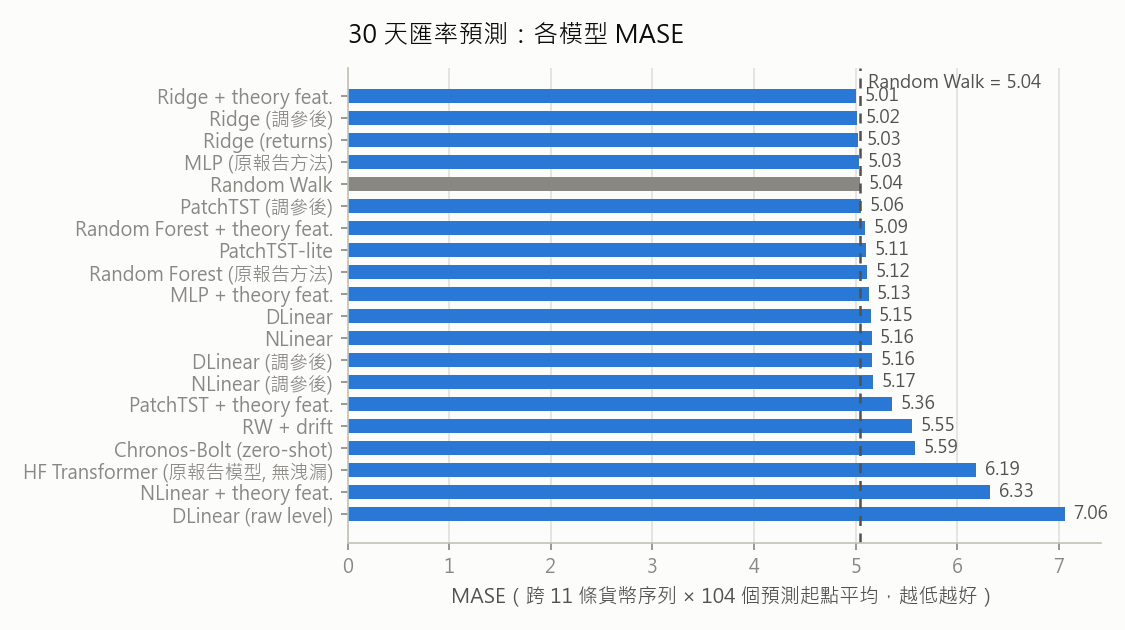
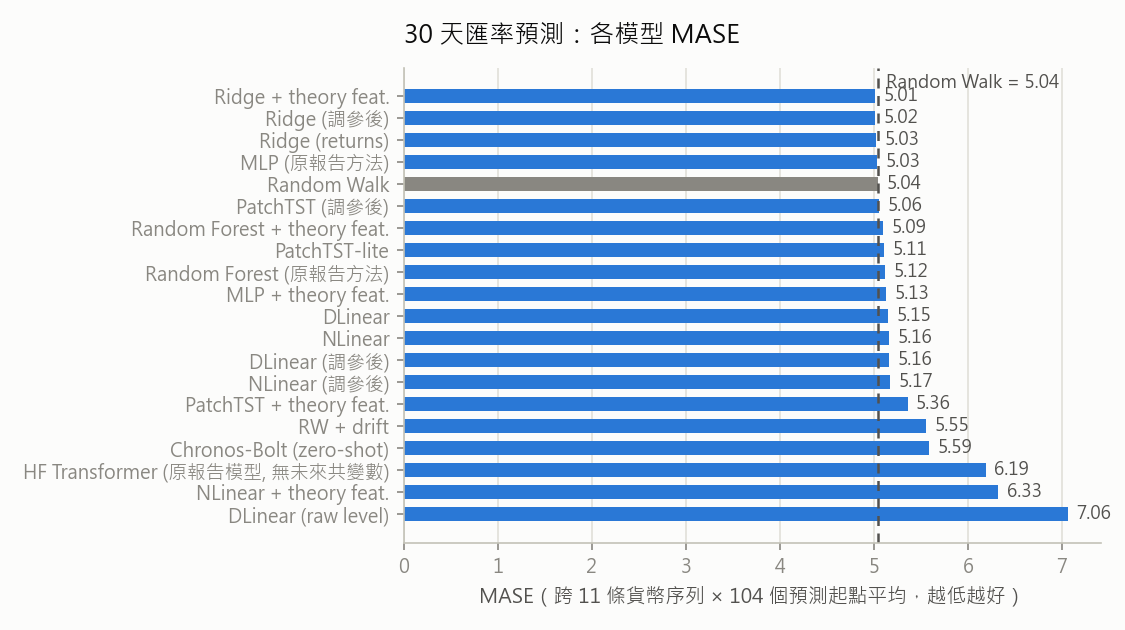
依第六輪 review 修正：research_summary 註記與全面清查文件措辭
- research_summary.md 的 2026-11 註記改正：本文件 DM 原本就是 MASE；results/ 的 summary.csv、report.md 已改 MASE 版重新彙整，rwchal_dm.csv 仍為 level MAE
- HF Transformer 的「無洩漏」標籤統一改為「無未來共變數」（make_report、README、modified_code_report、full_project_report、hf_transformer_exp docstring）
- README 的 leakage-free 敘述、data.py 目錄註解、DM 損失說明補上現況
- extension_report、modified_code_report 的 summarize DM 損失與 feat_lag 描述補上 2026-11 更新；比較表加註時間戳洩漏
- sklearn_exp docstring 不再宣稱無洩漏
- 以 .venv 重新產生 results/report.md、fig_mase.png（標籤變更）

diff --git a/experiments/sklearn_exp.py b/experiments/sklearn_exp.py
@@ -1,7 +1,7 @@
 """補測原報告的傳統 ML 模型：Random Forest 與 MLP（sklearn）。
 
 與原報告同套件同預設精神（RF n_estimators=100；MLP 隱藏層 + Adam），
-但放進無洩漏的 rolling backtest 框架，輸入與 Ridge 相同的
+但放進不使用未來共變數的 rolling backtest 框架（理論特徵的時間戳處理依 load_panel 的 feat_lag），輸入與 Ridge 相同的
 報酬落後期（±理論特徵）設計矩陣，目標為 h=1..30 累積 log 報酬。
 
 用法：python experiments/sklearn_exp.py [--smoke]

diff --git a/experiments/make_report.py b/experiments/make_report.py
@@ -38,7 +38,7 @@ LABELS = {
     "dlinear_raw_level": "DLinear (raw level)",
     "patchtst": "PatchTST-lite",
     "patchtst_feat": "PatchTST + theory feat.",
-    "hf_transformer": "HF Transformer (原報告模型, 無洩漏)",
+    "hf_transformer": "HF Transformer (原報告模型, 無未來共變數)",
     "chronos_bolt": "Chronos-Bolt (zero-shot)",
     "random_forest": "Random Forest (原報告方法)",
     "random_forest_feat": "Random Forest + theory feat.",

diff --git a/experiments/hf_transformer_exp.py b/experiments/hf_transformer_exp.py
@@ -1,4 +1,4 @@
-"""原報告的 HF TimeSeriesTransformer，以無洩漏設定接進 rolling backtest。
+"""原報告的 HF TimeSeriesTransformer，以不使用未來共變數與理論特徵的設定接進 rolling backtest。
 
 與原 transformer.py 的差異：
 - 不把未來 FFX/利率餵給模型（num_dynamic_real_features=0；時間特徵只有日曆與 age，

diff --git a/README.md b/README.md
@@ -155,7 +155,7 @@ Repo 根目錄另外保留較早期的：
 5. **No formal significance tests**
    早期只比較平均誤差，無法判斷差異是否只是抽樣波動。
 
-因此最終研究改採 leakage-free rolling-origin backtest，並增加統計檢定與 robustness analysis。
+因此最終研究改採沒有未來共變數的 rolling-origin backtest，並增加統計檢定與 robustness analysis（之後另外發現遠期匯率有時間戳洩漏，見下方 Extension Experiments；現行程式以 `feat_lag=1` 修正）。
 
 ---
 
@@ -196,12 +196,12 @@ Repo 根目錄另外保留較早期的：
 │
 └── experiments/
     ├── fxlib/
-    │   ├── data.py                  # leakage-free data / features
+    │   ├── data.py                  # data / features（feat_lag=1 修正遠期匯率時間戳洩漏）
     │   ├── models.py                # 統一模型介面
     │   └── backtest.py              # metrics / DM test
     ├── run_experiments.py           # 主 rolling-origin 實驗
     ├── sklearn_exp.py               # Random Forest / MLP
-    ├── hf_transformer_exp.py        # HF Transformer 無洩漏重測
+    ├── hf_transformer_exp.py        # HF Transformer 無未來共變數重測
     ├── chronos_exp.py               # Chronos-Bolt zero-shot
     ├── tune_experiments.py          # validation-based tuning
     ├── rw_challenge.py              # Random Walk 專項挑戰
@@ -226,7 +226,7 @@ Repo 根目錄另外保留較早期的：
 **重要：延伸實驗發現兩個會影響上方 Final Results 的問題**（詳見 [`experiments/docs/extension_report.md`](experiments/docs/extension_report.md) §0）：
 
 1. **遠期匯率時間戳洩漏**。AUD、CAD、DKK、JPY、NOK、CHF、GBP 七個貨幣的 FFX（RFV 來源）取價時間晚於 WM/R 即期定盤，`fwd_premium` 因此含有次日即期報酬的資訊（與次日報酬相關 0.43–0.51）。這對點位 MASE 影響很小（Ridge + 理論特徵與無特徵版差距 <0.5%），但使用 `fwd_premium` 的任何結果都應以 `ext_leak_check.py` 的 `feat_lag1` 版本為準。
-2. **合併 DM 檢定以 level 單位 MAE 計算**，KRW 佔合併 MAE 的 86%。尺度無關（MASE）版本見 `experiments/results_ext/existing_vs_rw_scalefree.csv`；「無模型顯著優於 Random Walk」的結論不變。
+2. **合併 DM 檢定以 level 單位 MAE 計算**，KRW 佔合併 MAE 的 86%（現行 `summarize` 已改以 MASE 為 `dm_p` 的損失）。尺度無關（MASE）版本見 `experiments/results_ext/existing_vs_rw_scalefree.csv`；「無模型顯著優於 Random Walk」的結論不變。
 
 延伸實驗本身的結論：三個問題都**沒有**產生穩健優於 Random Walk 的點位預測；唯一的跨貨幣效果只在 KRW/TWD（定盤時間落後 G10 所致），其餘貨幣為零。各模型適合的資料類型、優缺點與架構解釋見 [`experiments/docs/model_comparison.md`](experiments/docs/model_comparison.md)。
 
@@ -319,7 +319,7 @@ Smoke test 涵蓋：
 
 目前結果仍有以下限制：
 
-- 主表的 DM 檢定以 level MAE 合併，高價位貨幣（KRW）權重過大；尺度無關版本見 `experiments/results_ext/existing_vs_rw_scalefree.csv`。
+- 上方 Final Results 主表的 DM 檢定以 level MAE 合併（2026-08 產生），高價位貨幣（KRW）權重過大；現行 `summarize` 已改以 MASE 為損失；尺度無關版本見 `experiments/results_ext/existing_vs_rw_scalefree.csv`。
 - 7 個貨幣的遠期匯率有時間戳洩漏（見上方 Extension Experiments）。
 - Chronos 的預訓練資料可能包含部分金融時間序列，因此 zero-shot 結果僅作 baseline。
 - 本研究結果不支持「穩健的 point-forecast superiority」。

diff --git a/experiments/docs/modified_code_report.md b/experiments/docs/modified_code_report.md
@@ -22,7 +22,7 @@ experiments/
 │   ├── models.py               # 模型動物園 + 共用訓練器
 │   └── backtest.py             # 指標、DM 檢定
 ├── run_experiments.py          # 主實驗矩陣
-├── hf_transformer_exp.py       # 原報告模型無洩漏重測
+├── hf_transformer_exp.py       # 原報告模型無未來共變數重測
 ├── chronos_exp.py              # Chronos-Bolt 零樣本
 ├── sklearn_exp.py              # RF/MLP（原報告方法）補測
 ├── tune_experiments.py         # 超參數調校 + 敏感度
@@ -68,7 +68,7 @@ experiments/
 - `metric_rows()`：每 (nation, origin) 一列——MAE/MSE/sMAPE/MASE 與各視野絕對誤差 `abserr_h*`（h ∈ {1,5,14,30}）。
 - `mase_scales()`：MASE 分母 = 訓練期 naive 一步 MAE（每貨幣）。
 - `dm_test(a, b, max_lag)`：Diebold-Mariano，Bartlett-kernel HAC 變異數（處理重疊視窗自相關）+ Harvey-Leybourne-Newbold 小樣本修正；樣本過少時 lag 自動縮減（`min(max_lag, T//4)`）。
-- `summarize()`：多 seed 平均 → 模型層級總表（含 DM p 值）。
+- `summarize()`：多 seed 平均 → 模型層級總表（含 DM p 值）。（2026-11 更新：`dm_p` 改以 MASE 為損失，level MAE 版為 `mae_dm_p`；依 origin 對齊，共同起點少於 10 個時報錯。）
 
 ## 4. 實驗腳本詳解
 
@@ -85,7 +85,7 @@ train_cutoff   = 測試首起點 − 30           （embargo）
 
 2 folds（2022、2023 年度）× 10 模型 × 3 seeds（確定性模型跑 1 次）→ `results/raw.csv` + `meta.json`。
 
-### 4.2 hf_transformer_exp.py（原模型無洩漏重測）
+### 4.2 hf_transformer_exp.py（原模型無未來共變數重測）
 
 與原 transformer.py 的三個關鍵差異：
 1. `num_dynamic_real_features=0`——不給任何未來不可知的共變數；時間特徵只有日曆（dow/dom/doy 依 gluonts 慣例縮放）與 log-age，這些在未來視窗是真正已知的
@@ -154,7 +154,7 @@ nations/*.csv
 | 面向 | 原始程式 | 修改後 |
 |---|---|---|
 | 測試視窗 | 1 個（最後 30 天） | 104 個起點（主矩陣）/ 312 個（挑戰賽，已提交結果為 stride 5；`--stride 2` 可增至 780） |
-| 未來共變數 | 洩漏（feat_dynamic_real 進未來視窗） | 全部只用起點當下已知資訊 |
+| 未來共變數 | 洩漏（feat_dynamic_real 進未來視窗） | 不使用預測視窗內的未來共變數（⚠ 理論特徵另有遠期匯率時間戳洩漏，見 §1 更正） |
 | 驗證集 | 與訓練重疊、未用於選模 | 獨立區間 + embargo、early stopping + 選 checkpoint |
 | 歐元區 | 7 國重複計算 | 合併為單一序列 |
 | 檢定 | 無 | DM（HAC+HLN） |

diff --git a/experiments/results/report.md b/experiments/results/report.md
@@ -64,8 +64,8 @@
 
 以下數字由上方總表動態產生（DM 以 MASE 為損失）。
 
-1. **點位誤差**：沒有任何模型在 5% 水準顯著優於 Random Walk。MASE 最低的是 Ridge + theory feat.（MASE 比 0.993，DM p=0.336）。在 5% 水準顯著**差於** RW 的模型：MLP + theory feat.（MASE 比 1.017，p=0.037）、DLinear（MASE 比 1.021，p=0.035）、NLinear（MASE 比 1.023，p=0.025）、Chronos-Bolt (zero-shot)（MASE 比 1.109，p=0.032）、HF Transformer (原報告模型, 無洩漏)（MASE 比 1.228，p=0.006）、NLinear + theory feat.（MASE 比 1.255，p<0.001）、DLinear (raw level)（MASE 比 1.401，p<0.001）；0.05–0.10 之間差於 RW 的模型：PatchTST + theory feat.（MASE 比 1.063，p=0.091）、RW + drift（MASE 比 1.102，p=0.061）。（DM 以 MASE 為損失、雙尾檢定。）
-2. **原報告模型、零樣本模型與消融**：HF Transformer (原報告模型, 無洩漏) MASE 比 1.228（DM p=0.006）；Chronos-Bolt (zero-shot) MASE 比 1.109（DM p=0.032）；DLinear (raw level) MASE 比 1.401（DM p<0.001）；NLinear + theory feat. MASE 比 1.255（DM p<0.001）。
+1. **點位誤差**：沒有任何模型在 5% 水準顯著優於 Random Walk。MASE 最低的是 Ridge + theory feat.（MASE 比 0.993，DM p=0.336）。在 5% 水準顯著**差於** RW 的模型：MLP + theory feat.（MASE 比 1.017，p=0.037）、DLinear（MASE 比 1.021，p=0.035）、NLinear（MASE 比 1.023，p=0.025）、Chronos-Bolt (zero-shot)（MASE 比 1.109，p=0.032）、HF Transformer (原報告模型, 無未來共變數)（MASE 比 1.228，p=0.006）、NLinear + theory feat.（MASE 比 1.255，p<0.001）、DLinear (raw level)（MASE 比 1.401，p<0.001）；0.05–0.10 之間差於 RW 的模型：PatchTST + theory feat.（MASE 比 1.063，p=0.091）、RW + drift（MASE 比 1.102，p=0.061）。（DM 以 MASE 為損失、雙尾檢定。）
+2. **原報告模型、零樣本模型與消融**：HF Transformer (原報告模型, 無未來共變數) MASE 比 1.228（DM p=0.006）；Chronos-Bolt (zero-shot) MASE 比 1.109（DM p=0.032）；DLinear (raw level) MASE 比 1.401（DM p<0.001）；NLinear + theory feat. MASE 比 1.255（DM p<0.001）。
 
 ## 敏感度分析：Ridge + 理論特徵（α × 落後期全網格）
 

diff --git a/experiments/results/full_project_report.md b/experiments/results/full_project_report.md
@@ -91,7 +91,7 @@
 ## 5. 實驗歷程（三輪迭代）
 
 - **第 1 輪**：建框架 + 10 模型 × 52 起點 × 17 國（尚未去重）。發現：無模型顯著贏 RW；歐元區重複問題浮現。
-- **第 2 輪**：歐元去重、擴為 2 個年度區間、HF Transformer 無洩漏重測、Chronos 零樣本。核心發現成形。
+- **第 2 輪**：歐元去重、擴為 2 個年度區間、HF Transformer 無未來共變數重測、Chronos 零樣本。核心發現成形。
 - **第 3 輪**：超參數調校（每 fold 用自身驗證區間 grid search，測試集只評選出的配置）+ 全網格敏感度分析。確認所有結論對超參數穩健。
 
 ---
@@ -111,7 +111,7 @@
 | DLinear | 5.147 | 0.026（顯著**較差**） |
 | NLinear | 5.158 | 0.020（顯著較差） |
 | Chronos-Bolt 零樣本 | 5.589 | 0.052（較差） |
-| HF Transformer（原模型，無洩漏） | 6.190 | 0.024（顯著**較差**） |
+| HF Transformer（原模型，無未來共變數） | 6.190 | 0.024（顯著**較差**） |
 | NLinear + 特徵（消融） | 6.325 | <0.001（顯著較差） |
 | DLinear raw level（消融） | 7.061 | <10⁻¹³（顯著較差） |
 
@@ -150,7 +150,7 @@ experiments/
 │   ├── models.py          # 全部模型（統一 fit/predict 介面）
 │   └── backtest.py        # 指標、DM 檢定
 ├── run_experiments.py     # 主實驗矩陣（python experiments/run_experiments.py）
-├── hf_transformer_exp.py  # 原報告模型無洩漏重測
+├── hf_transformer_exp.py  # 原報告模型無未來共變數重測
 ├── chronos_exp.py         # Chronos-Bolt 零樣本
 ├── tune_experiments.py    # 超參數調校 + 敏感度
 ├── make_report.py         # 彙整結果、產圖、寫 report.md

diff --git a/experiments/docs/research_summary.md b/experiments/docs/research_summary.md
@@ -191,7 +191,7 @@ KRW 和 TWD 的定盤價取自亞洲時段收盤（約倫敦早上 8 點），G1
 
 延後一天後點位改善完全消失。因此本文件各表中帶 `_feat` 的結果不應解讀為理論特徵有點位資訊；判斷時以不帶特徵的版本為準。
 
-> 2026-11 更新：`fxlib/data.py` 的 `load_panel` 已加入 `feat_lag` 參數且預設為 1（特徵延後一個交易日），`fxlib/backtest.py` 的 `summarize` 改以 MASE 做 DM 檢定（level MAE 版保留為 `mae_dm_*`）。本文件與 `results/`、`results_ext/` 中已提交的數字是修正前（feat_lag=0、level MAE DM）產生的，尚未用新預設重跑。
+> 2026-11 更新：`fxlib/data.py` 的 `load_panel` 已加入 `feat_lag` 參數且預設為 1（特徵延後一個交易日），`fxlib/backtest.py` 的 `summarize` 改以 MASE 做 DM 檢定（level MAE 版保留為 `mae_dm_*`）。本文件與 `results_ext/` 的數字都是 feat_lag=0 時產生的（本文件的 DM 原本就以 MASE 為損失）。`results/` 的原始預測同樣是 feat_lag=0：`summary.csv`、`report.md` 已改用 MASE 版 DM 重新彙整，`rwchal_dm.csv` 仍是 level MAE DM。目前尚未用新預設重跑。
 
 ---
 
